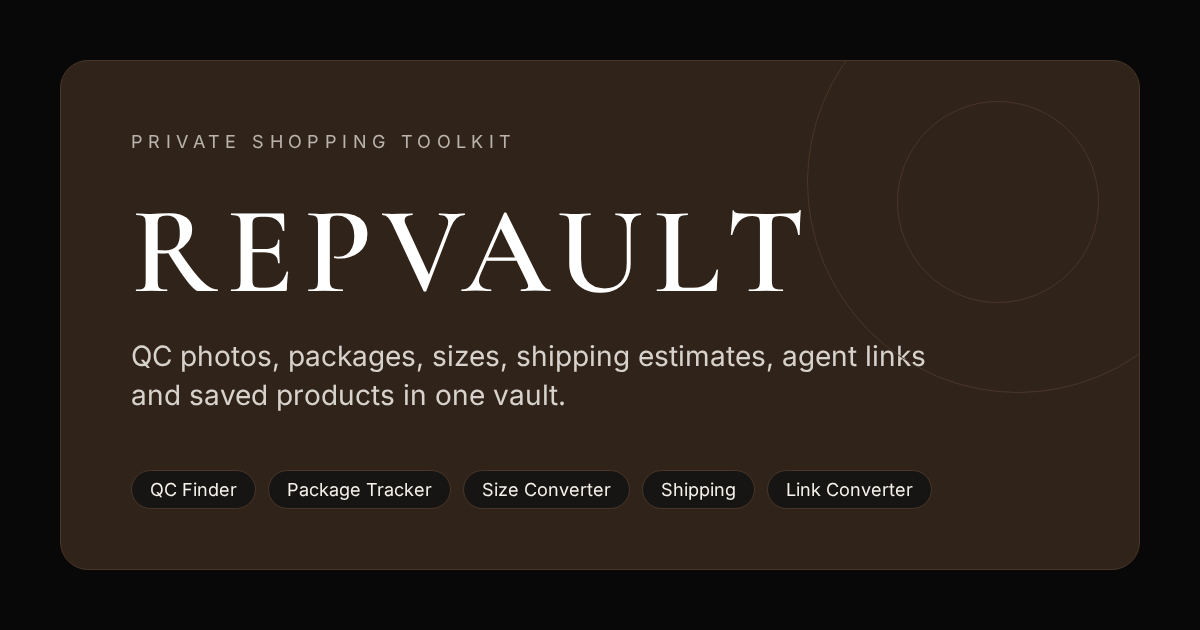
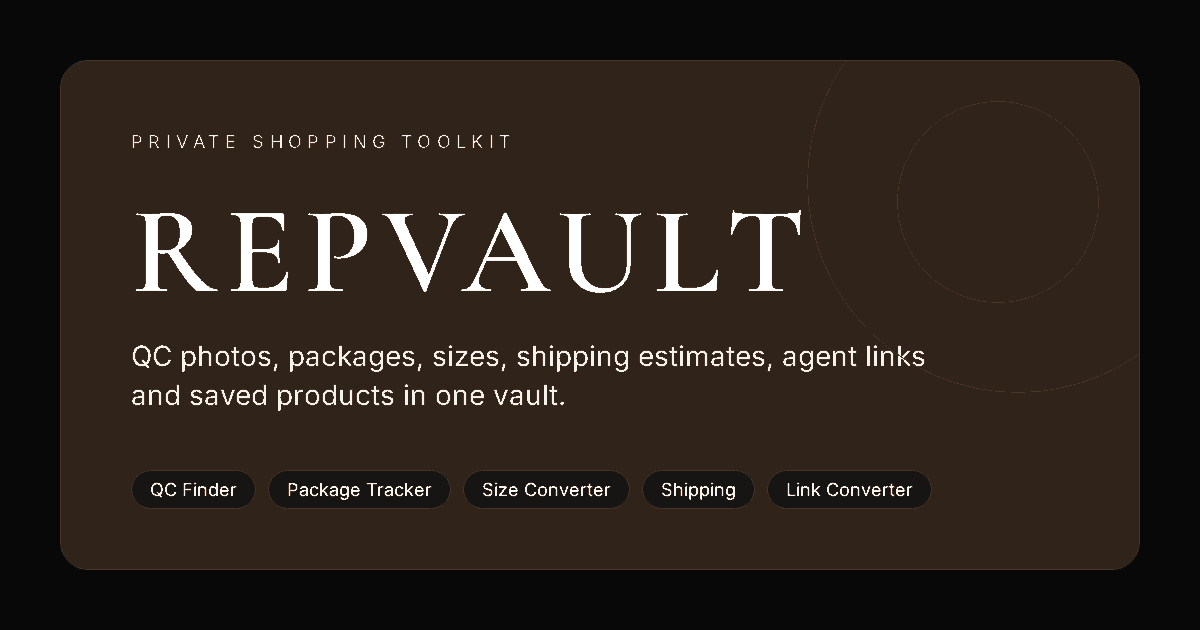
QA fixes: Sugargoo /products format, ACBuy TB/WD/AL, 1688 offer without .html, Tmall notice, table overflow cues, route announcer, unique shoe labels, unit toggle keeps input, palette placeholder/scrollbars/hr/og-image, overdue style, footer target, toast placement

diff --git a/css/styles.css b/css/styles.css
@@ -27,7 +27,12 @@
 }
 
 *, *::before, *::after { box-sizing: border-box; }
-html { -webkit-text-size-adjust: 100%; scroll-behavior: smooth; }
+html { -webkit-text-size-adjust: 100%; scroll-behavior: smooth; color-scheme: dark; color: var(--off); background: var(--black); scrollbar-color: var(--warm) var(--char); }
+::-webkit-scrollbar { width: 10px; height: 10px; }
+::-webkit-scrollbar-track { background: var(--char); }
+::-webkit-scrollbar-thumb { background: var(--warm); border-radius: 10px; border: 2px solid var(--char); }
+::-webkit-scrollbar-thumb:hover { background: var(--brown); }
+::-webkit-scrollbar-corner { background: var(--char); }
 body {
   margin: 0;
   background: var(--black);
@@ -98,6 +103,7 @@ p { margin: 0; }
 .view { padding: 44px clamp(18px, 4vw, 56px) 32px; max-width: 1240px; width: 100%; flex: 1; min-width: 0; }
 .view-enter { animation: rise .45s var(--ease) both; }
 @keyframes rise { from { opacity: 0; transform: translateY(8px); } to { opacity: 1; transform: none; } }
+.footer a { display: inline-block; min-height: 24px; line-height: 24px; padding: 0 2px; }
 .footer { padding: 22px clamp(18px, 4vw, 56px) 30px; color: var(--faint); font-size: 12.5px; border-top: 1px solid var(--line-soft); display: grid; gap: 4px; max-width: 1240px; }
 
 .scrim { position: fixed; inset: 0; background: var(--overlay); z-index: 35; }
@@ -138,7 +144,7 @@ p { margin: 0; }
 .row { display: flex; gap: 10px; align-items: center; flex-wrap: wrap; }
 .row-end { justify-content: flex-end; }
 .spacer { flex: 1; }
-.divider { height: 1px; background: var(--line-soft); margin: 18px 0; border: 0; }
+.divider { height: 1px; background: var(--line-soft); color: var(--warm); border: 0; border-color: transparent; margin: 18px 0; }
 
 /* Tool tiles */
 .tile {
@@ -176,7 +182,7 @@ p { margin: 0; }
   padding: 11px 13px; color: var(--white); min-height: 44px; transition: border-color .2s var(--ease), background .2s var(--ease);
 }
 .textarea { min-height: 96px; resize: vertical; line-height: 1.5; }
-.input::placeholder, .textarea::placeholder { color: rgba(245, 241, 235, .45); }
+.input::placeholder, .textarea::placeholder { color: var(--faint); opacity: 1; }
 .input:hover, .select:hover, .textarea:hover { border-color: rgba(245, 241, 235, .35); }
 .input:focus, .select:focus, .textarea:focus { outline: none; border-color: var(--off); background: var(--black); }
 .input[aria-invalid="true"], .textarea[aria-invalid="true"] { border-color: var(--off); border-style: dashed; }
@@ -196,7 +202,7 @@ input[type="checkbox"] { accent-color: var(--off); width: 18px; height: 18px; }
 
 /* Segmented */
 .seg { display: inline-flex; padding: 3px; background: var(--black); border: 1px solid var(--line); border-radius: 12px; gap: 2px; flex-wrap: wrap; }
-.seg button { border: 0; background: transparent; color: var(--muted); padding: 7px 14px; border-radius: 9px; cursor: pointer; font-size: 13px; font-weight: 500; min-height: 34px; transition: background .2s var(--ease), color .2s var(--ease); }
+.seg button { border: 0; background: transparent; color: var(--muted); padding: 7px 14px; border-radius: 9px; cursor: pointer; font-size: 13px; font-weight: 500; min-height: 38px; transition: background .2s var(--ease), color .2s var(--ease); }
 .seg button:hover { color: var(--white); }
 .seg button[aria-pressed="true"], .seg button[aria-selected="true"] { background: var(--off); color: var(--black); }
 
@@ -252,6 +258,11 @@ input[type="checkbox"] { accent-color: var(--off); width: 18px; height: 18px; }
 .table-wrap { position: relative; overflow-x: auto; border: 1px solid var(--line-soft); border-radius: var(--radius-sm); }
 table { width: 100%; border-collapse: collapse; font-size: 13.5px; }
 th, td { padding: 10px 12px; text-align: left; border-bottom: 1px solid var(--line-soft); white-space: nowrap; }
+table.wrap-cells th, table.wrap-cells td { white-space: normal; }
+.table-wrap.has-overflow { border-right: 2px solid var(--off); }
+.scroll-hint { display: none; font-size: 12px; color: var(--faint); margin: 0 0 6px; text-align: right; }
+.scroll-hint.show { display: block; }
+@media (max-width: 600px) { th, td { padding: 8px 9px; } table.compact th, table.compact td { white-space: normal; } }
 th { color: var(--faint); font-weight: 500; font-size: 11.5px; letter-spacing: .12em; text-transform: uppercase; background: rgba(48, 35, 25, .35); }
 tr:last-child td { border-bottom: 0; }
 tr.is-hit td { background: var(--brown); color: var(--white); font-weight: 600; }
@@ -273,6 +284,8 @@ td .input { min-height: 36px; padding: 6px 9px; min-width: 76px; }
 .timeline li::before { content: ""; position: absolute; left: 0; top: 7px; width: 8px; height: 8px; border-radius: 50%; border: 1.5px solid var(--off); }
 .timeline li:first-child::before { background: var(--off); }
 .timeline li:not(:last-child)::after { content: ""; position: absolute; left: 3.5px; top: 18px; bottom: -10px; width: 1px; background: var(--warm); }
+.overdue { color: var(--white); font-weight: 600; text-decoration: underline; text-decoration-style: dashed; text-decoration-color: var(--off); text-underline-offset: 4px; }
+.overdue svg { color: var(--white); }
 .timeline time { color: var(--faint); font-size: 12px; display: block; }
 .timeline p { overflow-wrap: anywhere; }
 
@@ -318,18 +331,19 @@ td .input { min-height: 36px; padding: 6px 9px; min-width: 76px; }
 .out-line .mono { font-size: 12.5px; color: var(--off); }
 
 /* ---------- Toasts ---------- */
-.toasts { position: fixed; right: 18px; bottom: 18px; z-index: 90; display: grid; gap: 10px; width: min(360px, calc(100vw - 36px)); }
+/* Desktop: toasts sit in the empty lower sidebar, never over page controls. Mobile: under the top bar. Never intercept clicks. */
+.toasts { position: fixed; left: 16px; bottom: 96px; z-index: 90; display: grid; gap: 10px; width: calc(var(--sidebar-w) - 32px); pointer-events: none; align-content: end; }
 .toast {
   display: flex; gap: 10px; align-items: flex-start; padding: 13px 14px; border-radius: 12px;
   background: var(--char); border: 1px solid var(--warm); color: var(--off); font-size: 13.5px;
-  box-shadow: 0 12px 30px rgba(8, 8, 8, .6); animation: toastIn .3s var(--ease) both;
+  box-shadow: 0 12px 30px rgba(8, 8, 8, .6); animation: toastIn .3s var(--ease) both; font-size: 13px;
 }
 .toast.is-error { border-style: dashed; border-color: var(--off); }
 .toast.is-success { background: var(--off); color: var(--black); border-color: var(--off); }
 .toast.leaving { animation: toastOut .25s var(--ease) both; }
 .toast-msg { flex: 1; overflow-wrap: anywhere; }
-@keyframes toastIn { from { opacity: 0; transform: translateY(10px); } to { opacity: 1; transform: none; } }
-@keyframes toastOut { to { opacity: 0; transform: translateY(6px); } }
+@keyframes toastIn { from { opacity: 0; transform: translateY(-10px); } to { opacity: 1; transform: none; } }
+@keyframes toastOut { to { opacity: 0; transform: translateY(-6px); } }
 
 /* ---------- Modal ---------- */
 dialog { padding: 0; border: 0; background: transparent; color: var(--off); max-width: none; max-height: none; }
@@ -368,6 +382,10 @@ dialog::backdrop { background: var(--overlay); backdrop-filter: blur(3px); }
 .chip svg { width: 16px; height: 16px; }
 .notfound { text-align: center; padding: 60px 20px; }
 .notfound .big-num { font-size: 96px; margin-bottom: 10px; }
+
+@media (max-width: 960px) {
+  .toasts { top: calc(var(--topbar-h) + 10px); bottom: auto; left: auto; right: 12px; width: min(360px, calc(100vw - 24px)); align-content: start; }
+}
 
 @media (prefers-reduced-motion: reduce) {
   *, *::before, *::after { animation-duration: .001ms !important; animation-iteration-count: 1 !important; transition-duration: .001ms !important; scroll-behavior: auto !important; }

diff --git a/js/tools/converter.js b/js/tools/converter.js
@@ -28,8 +28,8 @@
         '<div class="split" style="margin-top:18px">' +
           '<section class="card" aria-labelledby="cvh-h"><div class="card-head"><div><h2 id="cvh-h">History</h2><p class="card-sub">Last ' + MAX_HISTORY + " conversions, saved locally.</p></div><button class=\"btn btn-sm btn-ghost\" type=\"button\" id=\"cvh-clear\">Clear history</button></div><div id=\"cvh\"></div></section>" +
           '<section class="card" aria-labelledby="cvs-h"><div class="card-head"><div><h2 id="cvs-h">Supported formats</h2><p class="card-sub">Agent URL patterns checked on 15 Nov 2026.</p></div></div>' +
-            '<div class="table-wrap"><table><thead><tr><th scope="col">Agent</th><th scope="col">Convert to</th><th scope="col">Platforms</th></tr></thead><tbody>' +
-              Object.keys(A).map(function (k) { return "<tr><td>" + A[k].name + "</td><td>Yes</td><td>" + (A[k].platforms.length === 1 ? "Weidian" : "All 4") + "</td></tr>"; }).join("") +
+            '<div class="table-wrap"><table class="wrap-cells"><thead><tr><th scope="col">Agent</th><th scope="col">Convert to</th><th scope="col">Platforms</th></tr></thead><tbody>' +
+              Object.keys(A).map(function (k) { return "<tr><td>" + A[k].name + "</td><td>Yes</td><td>" + (A[k].platforms.length === 4 ? "All 4" + (A[k].tmallAsTaobao ? " (Tmall via Taobao code)" : "") : A[k].platforms.map(function (x) { return RV.links.PLATFORMS[x].name; }).join(", ")) + "</td></tr>"; }).join("") +
               Object.keys(RV.links.READ_ONLY).map(function (k) { return "<tr><td>" + RV.esc(RV.links.READ_ONLY[k]) + '</td><td class="muted">Read only</td><td class="muted">Unwrap</td></tr>'; }).join("") +
             "</tbody></table></div>" +
             '<p class="hint" style="margin-top:10px">“All 4” = Weidian, Taobao, Tmall and 1688. Short links (m.tb.cn, bit.ly), shop pages and Yupoo albums don’t contain an item number. Open them first and paste the full product address.</p>' +
@@ -54,8 +54,8 @@
         if (!p) return { input: link, error: RV.links.explain(link) };
         if (target === "original") return { input: link, parsed: p, output: p.original };
         var url = RV.links.toAgent(p, target);
-        if (!url) return { input: link, parsed: p, error: A[target].name + " links are verified for Weidian items only. Original: " + p.original };
-        return { input: link, parsed: p, output: url };
+        if (!url) return { input: link, parsed: p, error: A[target].name + " links can't be built for " + p.platformName + " items (format not verified). Original: " + p.original };
+        return { input: link, parsed: p, output: url, tmall: RV.links.losesTmall(p, target) };
       }
       function targetName(t) { return t === "original" ? "Original" : A[t].name; }
       function addHistory(r, target) {
@@ -81,6 +81,7 @@
           out.innerHTML = '<div class="result">' +
             '<dl class="kv"><dt>Detected</dt><dd>' + RV.esc(r.parsed.platformName) + ' item <span class="mono">' + RV.esc(r.parsed.id) + "</span>" + (r.parsed.via ? " · from " + RV.esc(r.parsed.via) : "") + "</dd><dt>Result</dt><dd>" + RV.esc(targetName(target)) + "</dd></dl>" +
             (r.output ? outLine(r) : '<div class="notice notice-error">' + RV.icon("alert") + "<div>" + RV.esc(r.error) + "</div></div>") +
+            (r.tmall ? '<div class="notice" id="cv-tmall-note">' + RV.icon("info") + "<div>" + RV.esc(RV.links.TMALL_NOTE) + "</div></div>" : "") +
             (target !== "original" ? '<div class="out-line"><span class="mono">' + RV.esc(r.parsed.original) + '</span><span class="actions"><button class="btn btn-sm" type="button" data-copy="' + RV.esc(r.parsed.original) + '">' + RV.icon("copy") + "Copy original</button></span></div>" : "") +
             '<details><summary class="small muted" style="cursor:pointer">Same item on other agents (' + others.length + ")</summary><div class=\"chip-list\" style=\"margin-top:10px\">" +
               others.map(function (x) { return '<a class="chip" href="' + RV.esc(x.url) + '" target="_blank" rel="noopener">' + RV.icon("external") + RV.esc(A[x.k].name) + "</a>"; }).join("") + "</div></details>" +
@@ -97,7 +98,7 @@
           var allOut = res.map(function (r) { return r.output || ""; }).join("\n");
           out.innerHTML = '<div class="result"><div class="row"><span class="strong">' + okCount + " of " + res.length + " converted</span>" + (okCount < res.length ? '<span class="badge badge-dashed">' + (res.length - okCount) + " failed</span>" : "") + '<span class="spacer"></span><button class="btn btn-sm btn-primary" type="button" id="cv-copy-all">' + RV.icon("copy") + "Copy all</button></div>" +
             '<ol class="stack" style="margin:0;padding-left:20px">' + res.map(function (r) {
-              return '<li style="min-width:0">' + (r.output ? outLine(r) : '<div class="out-line"><span class="small"><span class="mono">' + RV.esc(r.input) + "</span><br>" + RV.esc(r.error) + "</span></div>") + "</li>";
+              return '<li style="min-width:0">' + (r.tmall ? '<p class="hint" style="margin-bottom:4px">Tmall item: built with the Taobao code (same ID).</p>' : "") + (r.output ? outLine(r) : '<div class="out-line"><span class="small"><span class="mono">' + RV.esc(r.input) + "</span><br>" + RV.esc(r.error) + "</span></div>") + "</li>";
             }).join("") + "</ol><p class=\"hint\">Copy all keeps line order; failed lines are left blank.</p></div>";
           RV.$("#cv-copy-all", out).addEventListener("click", function () { RV.copy(allOut, okCount + " links copied"); });
           res.filter(function (r) { return r.output; }).slice(0, 10).forEach(function (r) { addHistory(r, target); });

diff --git a/js/links.js b/js/links.js
@@ -11,6 +11,8 @@
     "1688": { name: "1688", url: function (id) { return "https://detail.1688.com/offer/" + id + ".html"; } }
   };
 
+  var ACBUY_CODES = { weidian: "WD", taobao: "TB", tmall: "TB", "1688": "AL" };
+
   // Agents RepVault can generate links for (formats verified).
   var AGENTS = {
     kakobuy: {
@@ -23,32 +25,34 @@
     },
     sugargoo: {
       name: "Sugargoo", platforms: ["weidian", "taobao", "tmall", "1688"],
-      build: function (p) { return "https://www.sugargoo.com/#/home/productDetail?productLink=" + encodeURIComponent(p.original); }
+      // Current SPA route (live bundle, 15 Nov 2026): /products?productLink=<encoded original>. Old #/home/productDetail links still unwrap.
+      build: function (p) { return "https://www.sugargoo.com/products?productLink=" + encodeURIComponent(p.original); }
     },
     oopbuy: {
-      name: "OopBuy", platforms: ["weidian", "taobao", "tmall", "1688"],
+      name: "OopBuy", platforms: ["weidian", "taobao", "tmall", "1688"], tmallAsTaobao: true,
       build: function (p) {
         var seg = p.platform === "weidian" ? "weidian/" : p.platform === "1688" ? "1688/" : "";
         return "https://oopbuy.com/product/" + seg + p.id;
       }
     },
     cssbuy: {
-      name: "CSSBuy", platforms: ["weidian", "taobao", "tmall", "1688"],
+      name: "CSSBuy", platforms: ["weidian", "taobao", "tmall", "1688"], tmallAsTaobao: true,
       build: function (p) {
         var seg = p.platform === "weidian" ? "item-micro-" : p.platform === "1688" ? "item-1688-" : "item-";
         return "https://www.cssbuy.com/" + seg + p.id + ".html";
       }
     },
     usfans: {
-      name: "USFans", platforms: ["weidian", "taobao", "tmall", "1688"],
+      name: "USFans", platforms: ["weidian", "taobao", "tmall", "1688"], tmallAsTaobao: true,
       build: function (p) {
         var code = p.platform === "weidian" ? 3 : p.platform === "1688" ? 1 : 2;
         return "https://www.usfans.com/product/" + code + "/" + p.id;
       }
     },
     acbuy: {
-      name: "ACBuy", platforms: ["weidian"],
-      build: function (p) { return "https://www.acbuy.com/product?id=" + p.id + "&source=WD"; }
+      // source flag: WD = Weidian, TB = Taobao/Tmall, AL = 1688 (verified 15 Nov 2026)
+      name: "ACBuy", platforms: ["weidian", "taobao", "tmall", "1688"], tmallAsTaobao: true,
+      build: function (p) { return "https://www.acbuy.com/product?id=" + p.id + "&source=" + ACBUY_CODES[p.platform]; }
     }
   };
 
@@ -108,7 +112,7 @@
       return result("taobao", tid);
     }
     if (/(^|\.)1688\.com$/.test(h)) {
-      var om = path.match(/offer\/(\d+)\.html/);
+      var om = path.match(/offer\/(\d+)(?:\.html)?(?:[/?#]|$)/);
       return result("1688", om ? om[1] : p.offerid);
     }
     return null;
@@ -139,7 +143,8 @@
     if (agentKey === "usfans" && (m = path.match(/\/product\/([123])\/(\d+)/))) return result({ 1: "1688", 2: "taobao", 3: "weidian" }[m[1]], m[2], via);
     if (agentKey === "acbuy" && p.id) {
       var src = String(p.source || "").toUpperCase();
-      if (src === "WD") return result("weidian", p.id, via);
+      var acMap = { WD: "weidian", TB: "taobao", AL: "1688" };
+      if (acMap[src]) return result(acMap[src], p.id, via);
     }
     // 3) id + platform word (CNFans, Mulebuy, Joyagoo, LoveGoBuy and similar)
     var pw = platformWord(p.shop_type || p.platform || p.shoptype || p.channel || p.source);
@@ -182,10 +187,12 @@
   RV.links = {
     PLATFORMS: PLATFORMS, AGENTS: AGENTS, READ_ONLY: READ_ONLY,
     parse: parse, explain: explain, toAgent: toAgent, platformOf: platformOf,
+    losesTmall: function (parsed, agentKey) { return !!(parsed && parsed.platform === "tmall" && AGENTS[agentKey] && AGENTS[agentKey].tmallAsTaobao); },
+    TMALL_NOTE: "This agent's link format has no separate Tmall code, so it is built with the Taobao code. The item ID is the same; converting it back gives a Taobao-format link. Keep the original Tmall link shown here.",
     qcFinder: function (parsed) { return "https://rep.tools/qc-finder?link=" + encodeURIComponent(parsed.original); },
     agentOptions: function (selected) {
       return Object.keys(AGENTS).map(function (k) {
-        return '<option value="' + k + '"' + (k === selected ? " selected" : "") + ">" + RV.esc(AGENTS[k].name) + (AGENTS[k].platforms.length === 1 ? " (Weidian only)" : "") + "</option>";
+        return '<option value="' + k + '"' + (k === selected ? " selected" : "") + ">" + RV.esc(AGENTS[k].name) + (AGENTS[k].platforms.length < 4 ? " (" + AGENTS[k].platforms.map(function (x) { return PLATFORMS[x].name; }).join(", ") + " only)" : "") + "</option>";
       }).join("");
     }
   };

diff --git a/js/tools/sizes.js b/js/tools/sizes.js
@@ -63,7 +63,7 @@
               '<details style="margin-top:14px"><summary class="small muted" style="cursor:pointer">Full shoe chart</summary><div class="table-wrap" style="margin-top:10px"><table id="sh-table"><thead><tr>' + Object.keys(SHOE_COLS).map(function (k) { return '<th scope="col">' + SHOE_COLS[k] + "</th>"; }).join("") + "</tr></thead><tbody></tbody></table></div></details>" +
             "</section>" +
             '<section class="card" aria-labelledby="cl-h"><div class="card-head"><div><h2 id="cl-h">Clothing charts</h2><p class="card-sub">Body measurements in ' + '<span id="cl-unit"></span>' + ".</p></div><div class=\"seg\" role=\"tablist\" aria-label=\"Chart type\"><button type=\"button\" role=\"tab\" data-tab=\"tops\" aria-selected=\"true\">Tops</button><button type=\"button\" role=\"tab\" data-tab=\"bottoms\" aria-selected=\"false\">Bottoms</button></div></div>" +
-              '<div class="table-wrap"><table id="cl-table"></table></div>' +
+              '<div class="table-wrap"><table id="cl-table" class="compact"></table></div>' +
               '<div class="notice" style="margin-top:14px">' + RV.icon("info") + "<div><strong>Chinese sizes usually run 1–2 sizes small.</strong> A US M is often an L or XL on Taobao/Weidian. Always compare against the seller’s own chart of garment measurements (in cm) before ordering.</div></div>" +
             "</section>" +
           "</div>" +
@@ -79,7 +79,14 @@
       var hitIndex = 7;
       function fillVals() {
         var k = sys.value;
-        val.innerHTML = SHOES.map(function (r, i) { return '<option value="' + i + '"' + (i === hitIndex ? " selected" : "") + ">" + fmt(shoeRow(r)[k]) + "</option>"; }).join("");
+        var counts = {};
+        SHOES.forEach(function (r) { var v = shoeRow(r)[k]; counts[v] = (counts[v] || 0) + 1; });
+        val.innerHTML = SHOES.map(function (r, i) {
+          var row = shoeRow(r), v = row[k];
+          var label = fmt(v) + (counts[v] > 1 ? (k === "usm" ? "" : " (US M " + fmt(row.usm) + ")") : "");
+          if (counts[v] > 1 && k === "usm") label += " (EU " + row.eu + ")";
+          return '<option value="' + i + '"' + (i === hitIndex ? " selected" : "") + ">" + label + "</option>";
+        }).join("");
         paintShoe();
       }
       function paintShoe() {
@@ -154,9 +161,20 @@
       });
       RV.$$("[data-unit]", el).forEach(function (b) {
         b.addEventListener("click", function () {
+          if (b.dataset.unit === unit) return;
+          // Convert whatever is currently typed (saved or not) to the new unit.
+          var from = unit, typed = {};
+          FIELDS.forEach(function (f) { var v = RV.$("#me-" + f.k, form).value.trim(); typed[f.k] = v; });
           unit = b.dataset.unit; RV.setting("measureUnit", unit);
           RV.$$("[data-unit]", el).forEach(function (x) { x.setAttribute("aria-pressed", String(x === b)); });
-          paintForm(); paintChart(lastHit);
+          paintForm();
+          FIELDS.forEach(function (f) {
+            var inp = RV.$("#me-" + f.k, form), raw = typed[f.k], n = RV.num(raw);
+            if (!raw) { inp.value = ""; return; }
+            if (!isFinite(n)) { inp.value = raw; return; }
+            inp.value = RV.round(from === "cm" ? n / IN : n * IN, 1);
+          });
+          paintChart(lastHit); paintRec();
         });
       });
 

diff --git a/js/app.js b/js/app.js
@@ -55,6 +55,7 @@
     if (!tool) {
       current = null;
       document.title = "Not found · REPVAULT";
+      announce("Page not found");
       view.innerHTML = '<section class="notfound"><p class="big-num">404</p><h1>This page isn’t in the vault</h1><p class="lede" style="margin:12px auto 24px">The link may be mistyped or the page was moved.</p><a class="btn btn-primary" href="#/dashboard">' + RV.icon("dashboard") + "Back to dashboard</a></section>";
       return;
     }
@@ -68,7 +69,37 @@
     }
     RV.trackRecent(r.route);
     window.scrollTo(0, 0);
+    announce(tool.title);
   }
+  var announcer = document.getElementById("route-announcer");
+  function announce(text) {
+    announcer.textContent = "";
+    setTimeout(function () { announcer.textContent = text + " page"; }, 60);
+  }
+
+  // Mark horizontally scrollable tables with a visible cue.
+  var markTimer = null;
+  function markScroll() {
+    clearTimeout(markTimer);
+    markTimer = setTimeout(function () {
+      RV.$$(".table-wrap", view).forEach(function (w) {
+        var over = w.scrollWidth > w.clientWidth + 1;
+        w.classList.toggle("has-overflow", over);
+        if (over) { w.setAttribute("tabindex", "0"); w.setAttribute("role", "region"); w.setAttribute("aria-label", "Scrollable table"); }
+        var hint = w.previousElementSibling;
+        if (!hint || !hint.classList.contains("scroll-hint")) {
+          hint = document.createElement("p"); hint.className = "scroll-hint"; hint.setAttribute("aria-hidden", "true"); hint.textContent = "Swipe or scroll sideways for more columns →";
+          w.parentNode.insertBefore(hint, w);
+        }
+        hint.classList.toggle("show", over);
+      });
+    }, 60);
+  }
+  RV.markScroll = markScroll;
+  new MutationObserver(function (muts) {
+    if (muts.some(function (m) { return !(m.target.classList && m.target.classList.contains("scroll-hint")); })) markScroll();
+  }).observe(view, { childList: true, subtree: true });
+  window.addEventListener("resize", markScroll);
   RV.rerender = render;
 
   function renderFxChip() {

diff --git a/js/tools/shipping.js b/js/tools/shipping.js
@@ -132,7 +132,7 @@
             "<dt>Typical transit</dt><dd>" + RV.esc(q.line.days || "—") + " days</dd></dl>" +
           '<p class="hint">Estimate only. Real costs depend on your agent, item type, battery/brand checks and remote-area fees.</p></div>';
         var sorted = all.slice().sort(function (a, b) { return a.over - b.over || a.total - b.total; });
-        cmp.innerHTML = '<div class="table-wrap"><table><thead><tr><th scope="col">Line</th><th scope="col">Billed</th><th scope="col">Estimate (CNY)</th><th scope="col">≈ ' + cur + '</th><th scope="col">Days</th><th scope="col">Note</th></tr></thead><tbody>' +
+        cmp.innerHTML = '<div class="table-wrap"><table class="compact"><thead><tr><th scope="col">Line</th><th scope="col">Billed</th><th scope="col">Estimate (CNY)</th><th scope="col">≈ ' + cur + '</th><th scope="col">Days</th><th scope="col">Note</th></tr></thead><tbody>' +
           sorted.map(function (x, i) {
             var c = RV.fx.convert(x.total, cur);
             return "<tr" + (x.line.id === q.line.id ? ' class="is-hit"' : "") + "><td>" + RV.esc(x.line.name) + '</td><td class="num">' + x.billed + ' kg</td><td class="num">' + RV.fx.cny(x.total) + '</td><td class="num">' + (c != null ? RV.esc(RV.fx.format(c, cur)) : "—") + "</td><td>" + RV.esc(x.line.days || "—") + "</td><td>" + (x.over ? "Over " + x.line.max + " kg" : i === 0 ? "Cheapest" : "") + "</td></tr>";

diff --git a/index.html b/index.html
@@ -41,13 +41,14 @@
   </aside>
 
   <main id="main" class="main" tabindex="-1">
-    <div id="view" class="view" aria-live="polite"></div>
+    <div id="view" class="view"></div>
     <footer class="footer">
       <p>REPVAULT · Your data stays in this browser (localStorage). Nothing is uploaded.</p>
       <p>Estimates are estimates. Live tracking is not fetched; carrier links open the official pages. Exchange rates by <a href="https://www.exchangerate-api.com" target="_blank" rel="noopener">ExchangeRate-API</a>.</p>
     </footer>
   </main>
 
+  <p class="sr-only" id="route-announcer" aria-live="polite" aria-atomic="true"></p>
   <div class="toasts" id="toasts" role="status" aria-live="polite" aria-atomic="false"></div>
 
   <dialog class="modal" id="modal" aria-labelledby="modal-title">

diff --git a/README.md b/README.md
@@ -27,11 +27,13 @@ No other network calls are made. Carrier tracking and QC photos open on the offi
 | --- | --- | --- |
 | KakoBuy | `kakobuy.com/item/details?url=<encoded original>` | Live kakobuy.com page indexed with this URL; HTTP 200; multiple converter docs |
 | Superbuy | `superbuy.com/en/page/buy/?nTag=Home-search&from=search-input&_search=url&position=&url=<encoded>` | Live superbuy.com URL in search index |
-| Sugargoo | `sugargoo.com/#/home/productDetail?productLink=<encoded>` | Posted by Sugargoo staff on r/Sugargoo |
+| Sugargoo | `sugargoo.com/products?productLink=<encoded>` | Route in Sugargoo's live JS bundle (`/productDetail` redirects to `/products`); old `#/home/productDetail` links still unwrap |
 | OopBuy | `oopbuy.com/product/<id>` (Taobao), `/product/weidian/<id>`, `/product/1688/<id>` | Converter docs; HTTP 200 |
 | CSSBuy | `cssbuy.com/item-<id>.html` (Taobao), `item-micro-<id>` (Weidian), `item-1688-<id>` | rep.tools + GRAILS docs; HTTP 200 |
 | USFans | `usfans.com/product/<3 Weidian, 2 Taobao, 1 1688>/<id>` | Two independent converter docs; HTTP 200 |
-| ACBuy | `acbuy.com/product?id=<id>&source=WD` (**Weidian only**) | Many Reddit posts pairing ACBuy and Weidian links |
+| ACBuy | `acbuy.com/product?id=<id>&source=WD` (Weidian), `TB` (Taobao/Tmall), `AL` (1688) | repbuytools.com + taofind.com docs, Apify agent-link output, many Reddit WD examples |
+
+Tmall: OopBuy, CSSBuy, USFans and ACBuy have no separate Tmall code, so Tmall items are built with the Taobao code (same ID) and the app shows a note; KakoBuy, Superbuy and Sugargoo keep the full Tmall URL.
 
 Read-only (unwrapped to the original, not generated): CNFans and AllChinaBuy (closed/maintenance since Aug 2026), Mulebuy and Hoobuy (unreachable), Joyagoo (conflicting formats).
 
